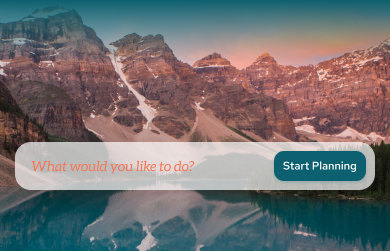
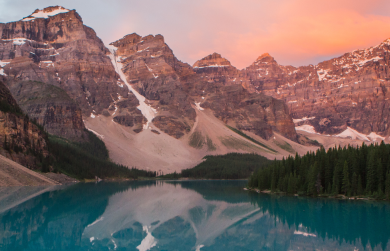
Mobile. Getter

diff --git a/src/main.ts b/src/main.ts
@@ -12,6 +12,7 @@ import { Carousel } from './components/carousel/Carousel';
 import { CarouselImage } from './components/carousel/image/CarouselImage';
 import { IconedButton } from './components/iconed-button/IconedButton';
 import { NavMenu } from './components/nav-menu/NavMenu';
+import { Getter } from 'lib/Accessor';
 
 const app = document.querySelector<HTMLDivElement>('#app');
 if (!app)
@@ -21,17 +22,19 @@ const mount = () => app.innerHTML = Renderer(/*html*/
 	`
 		<section class="header">
 			<div class="nav">
-				<logo mobile="${isMobile()}"></logo>
-				<nav-menu mobile="${isMobile()}"></nav-menu>
+				<logo mobile="${isMobile.value}"></logo>
+				<nav-menu mobile="${isMobile.value}"></nav-menu>
 			</div>
 			<div class="content">
-				<div class="title">
-					Explore the beauty of
-					the World
-				</div>
-				<div class="subtitle">
-					Receive personalized recommendations for countries, hotels, activities and more
-				</div>
+				${!isMobile.value ? /*html*/`
+					<div class="title">
+						Explore the beauty of
+						the World
+					</div>
+					<div class="subtitle">
+						Receive personalized recommendations for countries, hotels, activities and more
+					</div>
+				` : ''}
 				<div class="like-form">
 					What would you like to do?
 					<input type="button" value="Start Planning">
@@ -46,19 +49,19 @@ const mount = () => app.innerHTML = Renderer(/*html*/
 			</div>
 		</titled-section>
 		<titled-section name="POPULAR DESTINATIONS">
-			<carousel>
-				<carousel-image src="/img/rocks_sea_d.png.webp" title="SPAIN"></carousel-image>
-				<carousel-image src="/img/gate_d.png.webp" title="JAPAN"></carousel-image>
-				<carousel-image src="/img/bridge_d.png.webp" title="USA"></carousel-image>
+			<carousel mobile="${isMobile.value}">
+				<carousel-image src="/img/rocks_sea_${isMobile.value ? 'm' : 'd'}.png.webp" title="SPAIN"></carousel-image>
+				<carousel-image src="/img/gate_${isMobile.value ? 'm' : 'd'}.png.webp" title="JAPAN"></carousel-image>
+				<carousel-image src="/img/bridge_${isMobile.value ? 'm' : 'd'}.png.webp" title="USA"></carousel-image>
 			</carousel>
-			<div class="flex-row" style="margin-top: 40px">
+			<div class="flex-row" style="margin-top: ${isMobile.value ? 10 : 40}px">
 				<i-button icon="/icons/arrow-right.svg">Find More</i-button>
 			</div>
 		</titled-section>
 		<titled-section name="TRAVEL STORIES" class="travel-stories">
 			<div class="stories-footer">
 				<section class="stories">
-					${images.map(i => i.render()).join('\n')}
+					${images().map(i => i.render()).join('\n')}
 					<div class="flex-row" style="margin-top: 10px">
 						<i-button icon="/icons/arrow-right.svg">See More</i-button>
 					</div>
@@ -85,34 +88,34 @@ const mount = () => app.innerHTML = Renderer(/*html*/
 	}
 );
 
-const images = [
+const images = () => [
 	DescribedImage({
-		picture: '/img/rift_boat_d.png.webp',
+		picture: `/img/rift_boat_${isMobile.value ? 'm' : 'd'}.png.webp`,
 		title: '10 Photos of Attractive Thailand',
 		description: 'Lorem ipsum dolor sit amet, consectetur adipiscing elit, sed do eiusmod tempor incididunt ut labore et dolore magna aliqua. Ut enim ad minim veniam, quis nostrud exercitation ullamco laboris nisi ut aliquip ex ea commodo consequat. Duis aute irure dolor in reprehenderit in voluptate velit esse cillum dolore eu fugiat nulla pariatur. Excepteur sint occaecat cupidatat non proident, sunt in culpa qui officia deserunt mollit anim id est laborum.Lorem ipsum dolor sit amet, consectetur adipiscing elit...',
 		furtherRead: { link: '/' }
 	}),
 	DescribedImage({
-		picture: '/img/road_d.png.webp',
+		picture: `/img/road_${isMobile.value ? 'm' : 'd'}.png.webp`,
 		title: 'Canyonlands National Park, Utah',
 		description: 'Lorem ipsum dolor sit amet, consectetur adipiscing elit, sed do eiusmod tempor incididunt ut labore et dolore magna aliqua. Ut enim ad minim veniam, quis nostrud exercitation ullamco laboris nisi ut aliquip ex ea commodo consequat. Duis aute irure dolor in reprehenderit in voluptate velit esse cillum dolore eu fugiat nulla pariatur. Excepteur sint occaecat cupidatat non proident, sunt in culpa qui officia deserunt mollit anim id est laborum.Lorem ipsum dolor sit amet, consectetur adipiscing elit...',
 		furtherRead: { link: '/' }
 	}),
 	DescribedImage({
-		picture: '/img/snow_hills_d.png.webp',
+		picture: `/img/snow_hills_${isMobile.value ? 'm' : 'd'}.png.webp`,
 		title: 'I left my heart in the Mountains!',
 		description: 'Lorem ipsum dolor sit amet, consectetur adipiscing elit, sed do eiusmod tempor incididunt ut labore et dolore magna aliqua. Ut enim ad minim veniam, quis nostrud exercitation ullamco laboris nisi ut aliquip ex ea commodo consequat. Duis aute irure dolor in reprehenderit in voluptate velit esse cillum dolore eu fugiat nulla pariatur. Excepteur sint occaecat cupidatat non proident, sunt in culpa qui officia deserunt mollit anim id est laborum.Lorem ipsum dolor sit amet, consectetur adipiscing elit...',
 		furtherRead: { link: '/' }
 	}),
 	DescribedImage({
-		picture: '/img/car_d.png.webp',
+		picture: `/img/car_${isMobile.value ? 'm' : 'd'}.png.webp`,
 		title: 'The Longest journey in my life!',
 		description: 'Lorem ipsum dolor sit amet, consectetur adipiscing elit, sed do eiusmod tempor incididunt ut labore et dolore magna aliqua. Ut enim ad minim veniam, quis nostrud exercitation ullamco laboris nisi ut aliquip ex ea commodo consequat. Duis aute irure dolor in reprehenderit in voluptate velit esse cillum dolore eu fugiat nulla pariatur. Excepteur sint occaecat cupidatat non proident, sunt in culpa qui officia deserunt mollit anim id est laborum.Lorem ipsum dolor sit amet, consectetur adipiscing elit...',
 		furtherRead: { link: '/' }
 	})
 ];
 
-const isMobile = () => document.body.clientWidth <= document.body.clientHeight;
+const isMobile = Getter(() => window.innerWidth <= window.innerHeight);
 
 mount();
-Array.from(document.querySelectorAll('*')).forEach(n => n.classList.add(isMobile() ? 'mobile' : 'desktop'));
+Array.from(document.querySelectorAll('*')).forEach(n => n.classList.add(isMobile.value ? 'mobile' : 'desktop'));

diff --git a/src/styles/index.scss b/src/styles/index.scss
@@ -1,4 +1,5 @@
 section.header {
+	position: relative;
 	color: white;
 	height: 765px;
 	background-image: url('/img/hills_lake_d.png.webp');
@@ -23,9 +24,15 @@ section.header {
 
 		>:first-child {
 			margin-left: 120px;
+			&.mobile {
+				margin-left: 16px;
+			}
 		}
 		>:last-child {
 			margin-right: 120px;
+			&.mobile {
+				margin-right: 20px;
+			}
 		}
 
 		height: 90px;
@@ -64,24 +71,64 @@ section.header {
 			background-color: rgba(255, 255, 255, 0.7);
 			border-radius: 16px;
 			padding: 18px 18px 18px 41px;
+			&.mobile {
+				padding: 9px;
+				padding-left: 16.5px;
+				font-size: 14px;
+				line-height: 17px;
+				font-weight: 400;
+			}
 		}
 
 		margin-top: 32px;
 		margin-left: 120px;
 		margin-right: 428px;
 		bottom: 221px;
+		&.mobile {
+			position: absolute;
+			margin: 0px;
+			top: 142px;
+			left: 15px;
+			right: 15px;
+			bottom: 61px;
+		}
 	}
 }
 section >.bicycle-wrapper {
 	display: flex;
 	flex-flow: row;
-	padding: 0px 132px;
-	justify-content: center;
 	>:first-child {
 		margin-right: 231px;
+		&.mobile {
+			width: 94px;
+			margin-right: 31px;
+			align-items: flex-start !important;
+			* {
+				text-align: left !important;
+			}
+		}
+	}
+	>* {
+		width: 111px;
+		* {
+			text-align: center !important;
+		}
 	}
 	>:last-child {
 		margin-left: 160px;
+		&.mobile {
+			width: 98px;
+			margin-left: 26px;
+			align-items: flex-end !important;
+			* {
+				text-align: right !important;
+			}
+		}
+	}
+	justify-content: center;
+	padding: 0px 132px;
+	&.mobile {
+		padding: 0px 15px;
 	}
 }
 

diff --git a/src/components/carousel/Carousel.ts b/src/components/carousel/Carousel.ts
@@ -9,13 +9,15 @@ export interface Props extends ComponentProps {
 
 export const Carousel = ({ mobile, ...props }: Props): VNode => {
 	const page = Accessor(0);
-	const GAP = 60;
-	const WIMAGE = 800;
+	const GAP = mobile ? 30 : 60;
+	const WIMAGE = mobile ? 360 : 800;
+	const HIMAGE = mobile ? 210 : 800;
 	const self = {
 		exports: {
 			css: {
 				GAP: Accessor(`${GAP}px`),
 				WIMAGE: Accessor(`${WIMAGE}px`),
+				HIMAGE: Accessor(`${HIMAGE}px`),
 			},
 			refs: {
 				items: Accessor<HTMLElement | undefined>(undefined),
@@ -28,10 +30,8 @@ export const Carousel = ({ mobile, ...props }: Props): VNode => {
 				<div class="items" ref="items">
 					<slot></slot>
 				</div>
-				<fieldset>
-					<div class="pagination" ref="pagination">
-
-					</div>
+				<fieldset class="pagination-wrapper">
+					<div class="pagination" ref="pagination"></div>
 				</fieldset>
 			</div>
 			`,

diff --git a/src/components/carousel/Carousel.sass b/src/components/carousel/Carousel.sass
@@ -1,21 +1,34 @@
 .__vscope
 	overflow: hidden
-	// make it full-page-sized
-	width: 100vw
-	margin-left: calc((100% - 100vw) / 2)
+	position: relative
 	.items
 		display: flex
 		flex-flow: row
 		gap: vcss(GAP)
-		height: vcss(WIMAGE)
-		margin-bottom: 24px
+		height: vcss(HIMAGE)
 		margin-left: calc(50% - vcss(WIMAGE) / 2)
 		transition: .7s ease-out
 		>*
-			aspect-ratio: 1
+			width: vcss(WIMAGE)
+			min-width: vcss(WIMAGE)
 			border-radius: 16px
 	.pagination
 		display: flex
 		flex-flow: row
 		align-items: center
 		justify-content: center
+	.pagination-wrapper
+		margin-top: 24px
+		&.mobile
+			margin-top: 0px
+			position: absolute
+			bottom: 12px
+			left: 0px
+			right: 0px
+	
+	// make it full-page-sized
+	width: 100vw
+	margin-left: calc((100% - 100vw) / 2)
+	&.mobile
+		width: 100%
+		margin-left: 0px

diff --git a/src/styles/main.scss b/src/styles/main.scss
@@ -64,13 +64,19 @@ input[type='button'], button {
 	color: white;
 	background-color: #0D606F;
 	border: none;
-	box-shadow: 0px 4px 4px rgba(0, 0, 0, 0.25), 0px 2px 3px rgba(13, 96, 111, 0.16);
 	border-radius: 10px;
 	cursor: pointer;
 	
 	font-size: 24px;
 	line-height: 32px;
 	padding: 13.5px 32px;
+	box-shadow: 0px 4px 4px rgba(0, 0, 0, 0.25), 0px 2px 3px rgba(13, 96, 111, 0.16);
+	&.mobile {
+		font-size: 11px;
+		line-height: 15px;
+		padding: 7.5px 9px;
+		box-shadow: 0px 0px 3px rgba(13, 96, 111, 0.08), 0px 2px 3px rgba(13, 96, 111, 0.16);
+	}
 }
 button {
 	display: flex;

diff --git a/src/components/iconed-button/IconedButton.ts b/src/components/iconed-button/IconedButton.ts
@@ -1,4 +1,4 @@
-import { Component, type VNode, type ComponentProps, useCssVars, useOnMounted } from 'lib/Component';
+import { Component, type VNode, type ComponentProps, useCssVars, useOnMounted, useStyle } from 'lib/Component';
 
 export interface Props extends ComponentProps {
 	icon: string;
@@ -25,3 +25,7 @@ export const IconedButton = ({ icon, text, action, ...props }: Props): VNode => 
 
 	return self;
 };
+
+//styles
+import style from './IconedButton.sass?inline';
+useStyle(style, IconedButton.name);

diff --git a/src/lib/Accessor.ts b/src/lib/Accessor.ts
@@ -43,3 +43,5 @@ export const Accessorify = <T>(value: T): T extends IAccessor<infer A> ? IAccess
 		return value as T extends IAccessor<infer A> ? IAccessor<A> : IAccessor<T>;
 	return Accessor(value) as T extends IAccessor<infer A> ? IAccessor<A> : IAccessor<T>;
 };
+
+export const Getter = <T>(get: () => T): IAccessor<T> => Accessor(get(), { get, set: () => false });

diff --git a/src/components/nav-menu/NavMenu.sass b/src/components/nav-menu/NavMenu.sass
@@ -1,4 +1,6 @@
 .__vscope
+	.cross-btn, .menu-btn
+		cursor: pointer
 	nav
 		display: flex
 		align-items: center
@@ -18,6 +20,7 @@
 			grid-column: 1
 			grid-row: 1
 		&.mobile
+			z-index: 1
 			display: grid
 			align-items: flex-start
 			position: fixed

diff --git a/src/components/carousel/pagination-dot/PaginationDot.sass b/src/components/carousel/pagination-dot/PaginationDot.sass
@@ -1,8 +1,11 @@
 .__vscope
 	appearance: none
-	width: 20px
-	height: 20px
+	aspect-ratio: 1
 	border-radius: 50%
 	background-color: #F2785C80
 	&:active, &:checked
 		background-color: #F2785C
+
+	width: 20px
+.mobile .__vscope
+	width: 8px

diff --git a/src/components/sections/TitledSection.sass b/src/components/sections/TitledSection.sass
@@ -1,5 +1,10 @@
 section.titled.__vscope
-	margin: 80px 0px 97px
 	h1
 		margin-bottom: 40px
 		text-align: center
+		&.mobile
+			margin-bottom: 20px
+
+	margin: 80px 0px 97px
+	&.mobile
+		margin: 20px 0px

diff --git a/src/components/carousel/image/CarouselImage.sass b/src/components/carousel/image/CarouselImage.sass
@@ -16,3 +16,9 @@
 		line-height: 42px
 		left: 15px
 		bottom: 40px
+		&.mobile
+			font-size: 20px
+			line-height: 26px
+			left: 15px
+			top: 8px
+			bottom: none

diff --git a/src/components/iconed-button/IconedButton.sass b/src/components/iconed-button/IconedButton.sass
@@ -1,0 +1,5 @@
+.__vscope
+	padding: 7.5px 12px
+	gap: 6.62px
+	img
+		width: 8.75px
